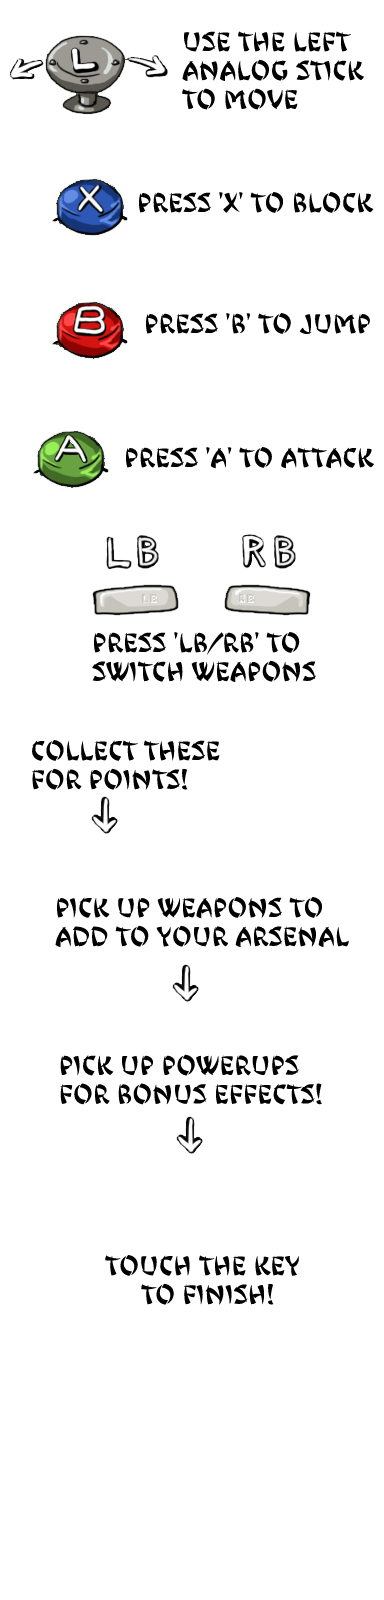
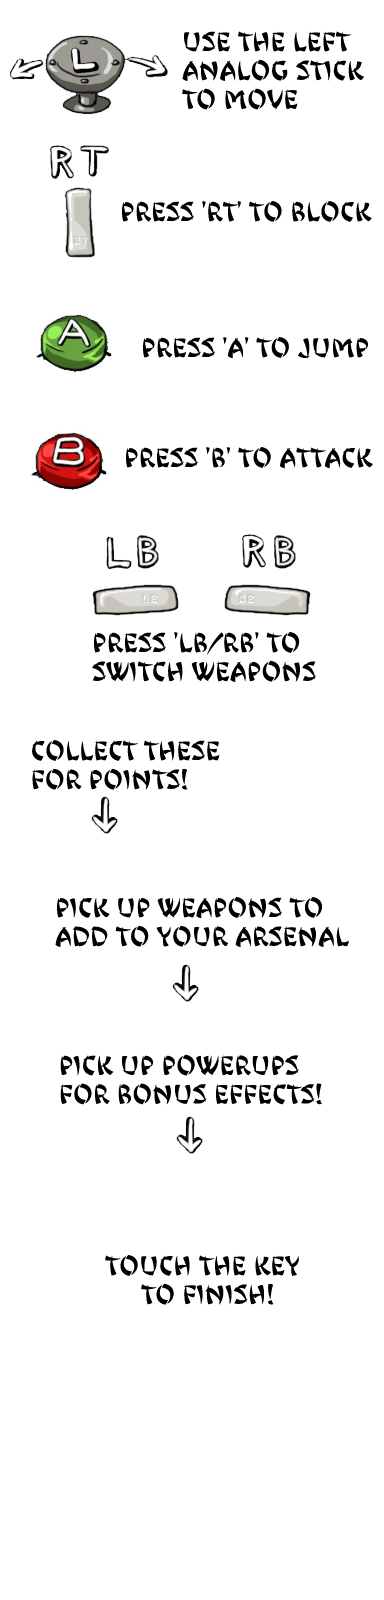
Changed Controls and updated tutorial to reflect those changes.

diff --git a/Corvus/Corvus/CorvusBinds.cs b/Corvus/Corvus/CorvusBinds.cs
@@ -58,13 +58,15 @@ namespace Corvus {
                     Assign((c) => MainMenuNavigation(false, c), false, new InputButton(Buttons.LeftThumbstickDown));
                     Assign(MainMenuSelect, false, new InputButton(Buttons.A));
                     //ingame
-                    Assign(JumpPressed, false, new InputButton(Buttons.B));
+                    Assign(JumpPressed, false, new InputButton(Buttons.A));
                     Assign((c) => MovePressed(Direction.Left, c), false, new InputButton(Buttons.LeftThumbstickLeft));
                     Assign((c) => MovePressed(Direction.Right, c), false, new InputButton(Buttons.LeftThumbstickRight));
-                    Assign(BlockPressed, false, new InputButton(Buttons.X));
+                    Assign(BlockPressed, false, new InputButton(Buttons.RightTrigger));
                     Assign((c) => SwitchWeapon(true, c), false, new InputButton(Buttons.RightShoulder));
                     Assign((c) => SwitchWeapon(false, c), false, new InputButton(Buttons.LeftShoulder));
-                    Assign(Attack, false, new InputButton(Buttons.A));
+                    Assign((c) => SwitchWeapon(true, c), false, new InputButton(Buttons.X));
+                    Assign((c) => SwitchWeapon(false, c), false, new InputButton(Buttons.Y));
+                    Assign(Attack, false, new InputButton(Buttons.B));
                     Assign(Pause, false, new InputButton(Buttons.Start));
                     //paused
                     Assign((c) => PausedNavigation(true, c), false, new InputButton(Buttons.LeftThumbstickUp));
